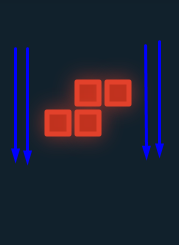
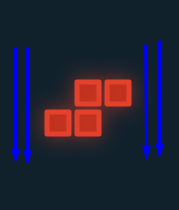
Rounded corners of the Tile

diff --git a/src/js/Tile.js b/src/js/Tile.js
@@ -14,7 +14,7 @@ class Tile {
         context.fillStyle = this.fillColor;
         context.strokeStyle = this.strokeColor;
 
-        let cornerRadius = 0.1;
+        let cornerRadius = 0.17;
         let rectWidth = 0.9;
         let rectHeight = 0.9;
         let rectX = x + 0.05;
